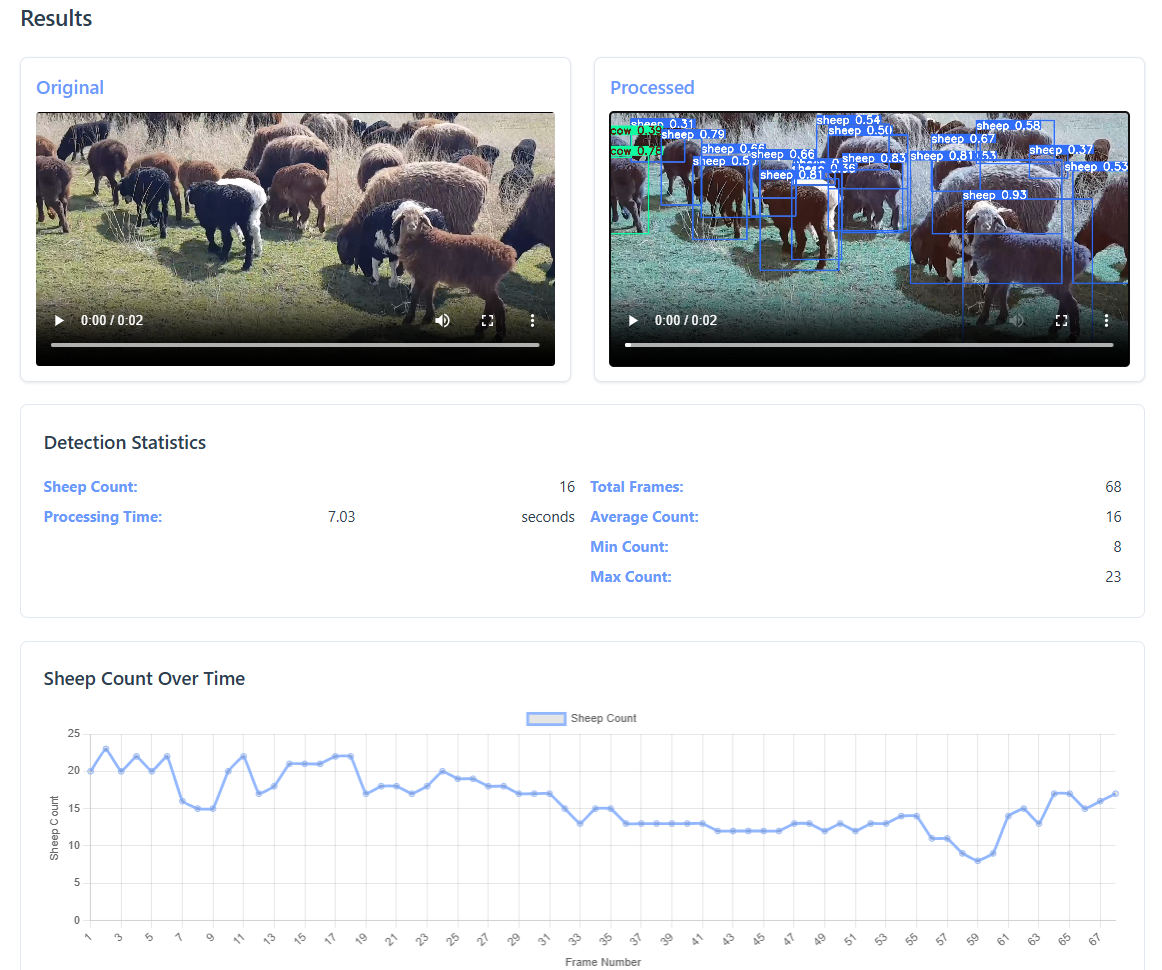
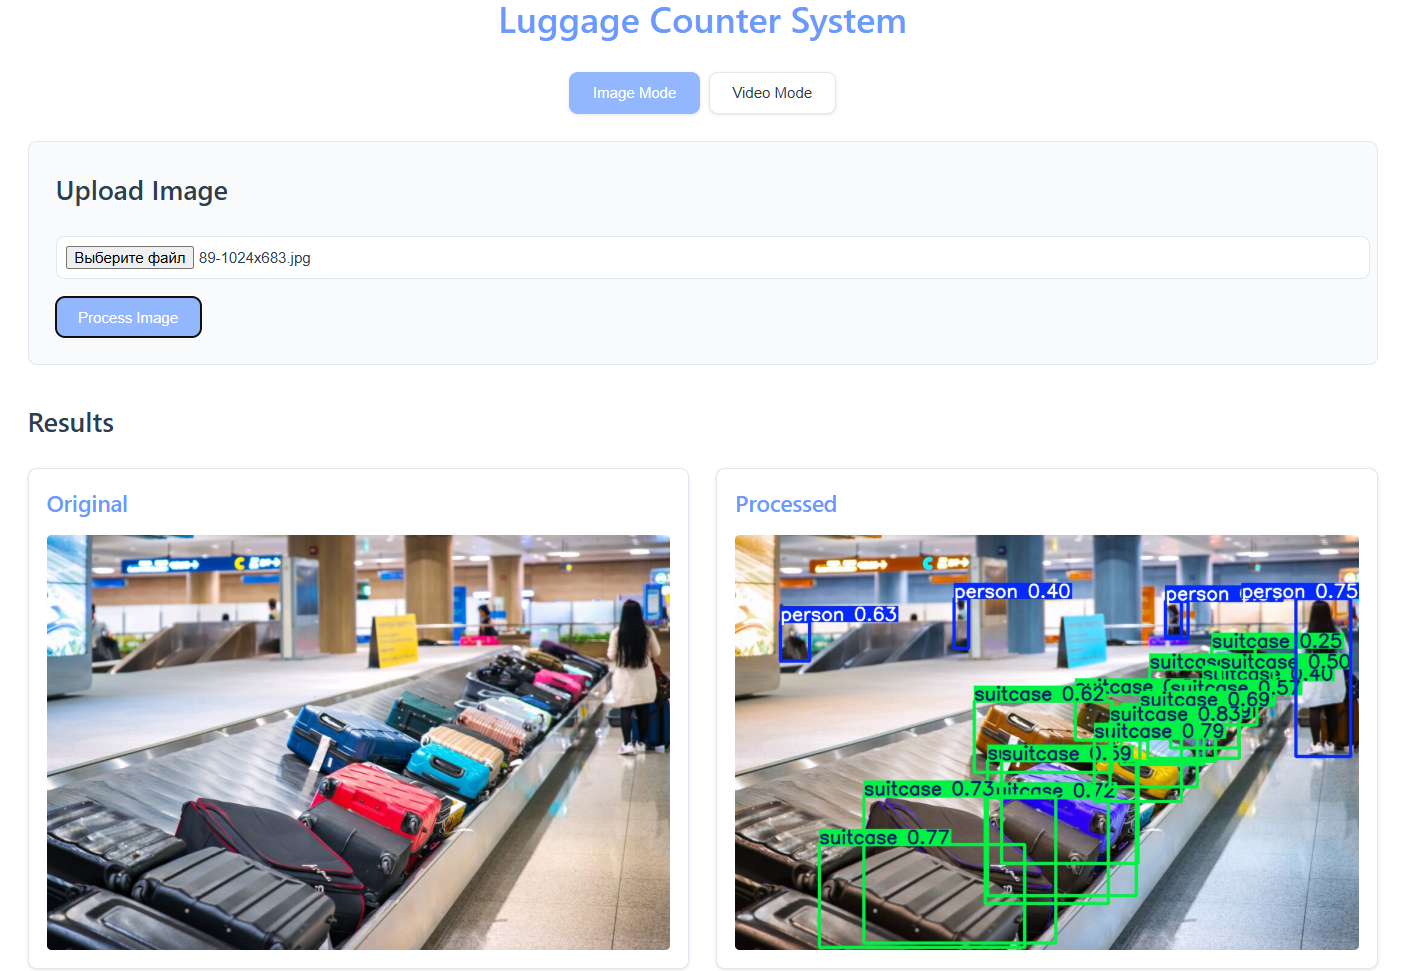
Change logic - count luggage

diff --git a/app/templates/index.html b/app/templates/index.html
@@ -3,12 +3,12 @@
 <head>
     <meta charset="UTF-8">
     <meta name="viewport" content="width=device-width, initial-scale=1.0">
-    <title>Sheep Counter System</title>
+    <title>Luggage Counter System</title>
     <link rel="stylesheet" href="/static/styles.css">
 </head>
 <body>
     <div class="container">
-        <h1>Sheep Counter System</h1>
+        <h1>Luggage Counter System</h1>
         
         <div class="mode-selector">
             <button class="mode-btn active" data-mode="image">Image Mode</button>
@@ -54,7 +54,7 @@
                 <h3>Detection Statistics</h3>
                 <div class="stats-grid">
                     <div>
-                        <p><strong>Sheep Count:</strong> <span id="sheepCount">0</span></p>
+                        <p><strong>Luggage Count:</strong> <span id="luggageCount">0</span></p>
                         <p><strong>Processing Time:</strong> <span id="processingTime">0</span> seconds</p>
                     </div>
                     <div id="videoStats" style="display:none;">
@@ -67,7 +67,7 @@
             </div>
 
             <div id="videoTimeline" class="timeline" style="display:none;">
-                <h3>Sheep Count Over Time</h3>
+                <h3>Luggage Count Over Time</h3>
                 <canvas id="timelineChart" width="800" height="200"></canvas>
             </div>
         </div>
@@ -186,7 +186,7 @@
                 }
             }
 
-            document.getElementById('sheepCount').textContent = data.count;
+            document.getElementById('luggageCount').textContent = data.count;
             document.getElementById('processingTime').textContent = data.processing_time;
         }
         
@@ -204,14 +204,14 @@
             const ctx = document.getElementById('timelineChart').getContext('2d');
 
             const labels = frameStats.map(stat => stat[0]); // Frame numbers
-            const counts = frameStats.map(stat => stat[1]); // Sheep counts
+            const counts = frameStats.map(stat => stat[1]); // Luggage counts
             
             new Chart(ctx, {
                 type: 'line',
                 data: {
                     labels: labels,
                     datasets: [{
-                        label: 'Sheep Count',
+                        label: 'Luggage Count',
                         data: counts,
                         borderColor: 'rgb(146, 183, 254)',
                         tension: 0.1,
@@ -225,7 +225,7 @@
                             beginAtZero: true,
                             title: {
                                 display: true,
-                                text: 'Sheep Count'
+                                text: 'Luggage Count'
                             }
                         },
                         x: {

diff --git a/app/templates/history.html b/app/templates/history.html
@@ -17,7 +17,7 @@
                     <th>Timestamp</th>
                     <th>Original Image/Video</th>
                     <th>Processed Image/Video</th>
-                    <th>Sheep Count</th>
+                    <th>Luggage Count</th>
                     <th>Processing Time</th>
                 </tr>
             </thead>
@@ -27,7 +27,7 @@
                     <td>{{ item.timestamp }}</td>
                     <td><a href="/static/uploads/{{ item.original_image }}" target="_blank">View</a></td>
                     <td><a href="/static/results/{{ item.processed_image }}" target="_blank">View</a></td>
-                    <td>{{ item.sheep_count }}</td>
+                    <td>{{ item.luggage_count }}</td>
                     <td>{{ "%.2f"|format(item.processing_time) }}s</td>
                 </tr>
                 {% endfor %}

diff --git a/app/detection.py b/app/detection.py
@@ -8,11 +8,11 @@ import numpy as np
 
 class DetectionResult(NamedTuple):
     image: Image.Image
-    count: int  # количество овец на изображении или среднее количество овец в кадре
+    count: int  # количество багажа на изображении или среднее количество багажа в кадре
     processing_time: float  # время обработки медиа файла
     frame_stats: List[Tuple[int, int, float]] = None  # для построения графика зависимости количества объектов от кадров
-    min_count: int = 0  # минимальное количество овец в кадре
-    max_count: int = 0  # максимальное количество овец в кадре
+    min_count: int = 0  # минимальное количество багажа в кадре
+    max_count: int = 0  # максимальное количество багажа в кадре
     total_frames: int = 0   # общее количество кадров в видео
 
 # Загрузка модели
@@ -32,14 +32,14 @@ def detect_objects(image_path: str, is_video: bool = False) -> DetectionResult:
         # Детекция объектов
         results = model(img_rgb)
         
-        # Подсчет овец
-        sheep_classes = ['sheep']
-        sheep_count = 0
+        # Подсчет багажа
+        luggage_classes = ['suitcase', 'handbag', 'backpack']
+        luggage_count = 0
         for result in results:
             for box in result.boxes:
                 class_name = model.names[int(box.cls)]
-                if class_name in sheep_classes:
-                    sheep_count += 1
+                if class_name in luggage_classes:
+                    luggage_count += 1
         
         plotted_img = results[0].plot()
         plotted_img_rgb = cv2.cvtColor(plotted_img, cv2.COLOR_BGR2RGB)
@@ -55,7 +55,7 @@ def detect_objects(image_path: str, is_video: bool = False) -> DetectionResult:
         
         return DetectionResult(
             image=pil_img,
-            count=sheep_count,
+            count=luggage_count,
             processing_time=round(processing_time, 2)
         )
     
@@ -104,15 +104,15 @@ def detect_objects(image_path: str, is_video: bool = False) -> DetectionResult:
             # Детекция объектов
             results = model(frame)
             
-            # Подсчет овец
-            sheep_count = 0
+            # Подсчет багажа
+            luggage_count = 0
             for result in results:
                 for box in result.boxes:
                     class_name = model.names[int(box.cls)]
-                    if class_name == 'sheep':
-                        sheep_count += 1
+                    if class_name in ['suitcase', 'handbag', 'backpack']:
+                        luggage_count += 1
             
-            counts.append(sheep_count)
+            counts.append(luggage_count)
             
             # Визуализация
             plotted_frame = results[0].plot()
@@ -121,7 +121,7 @@ def detect_objects(image_path: str, is_video: bool = False) -> DetectionResult:
             plotted_frame_rgb = cv2.cvtColor(plotted_frame, cv2.COLOR_BGR2RGB)
             out.write(plotted_frame_rgb)
             
-            frame_stats.append((frame_count, sheep_count, time.time() - frame_start))
+            frame_stats.append((frame_count, luggage_count, time.time() - frame_start))
 
             if frame_count % 10 == 0:
                 processed_frames.append(plotted_frame_rgb)
@@ -145,7 +145,7 @@ def detect_objects(image_path: str, is_video: bool = False) -> DetectionResult:
         
         return DetectionResult(
             image=last_frame,
-            count=avg_count,
+            count=max_count,
             processing_time=round(processing_time, 2),
             frame_stats=frame_stats,
             min_count=min_count,

diff --git a/app/database.py b/app/database.py
@@ -9,7 +9,7 @@ from reportlab.platypus import SimpleDocTemplate, Table, TableStyle, Paragraph
 from reportlab.lib.styles import getSampleStyleSheet
 import os
 
-SQLALCHEMY_DATABASE_URL = "sqlite:///./sheep_counter.db"
+SQLALCHEMY_DATABASE_URL = "sqlite:///./luggage_counter.db"
 
 engine = create_engine(SQLALCHEMY_DATABASE_URL)
 SessionLocal = sessionmaker(autocommit=False, autoflush=False, bind=engine)
@@ -23,7 +23,7 @@ class DetectionHistory(Base):
     timestamp = Column(DateTime, default=datetime.utcnow)
     original_image = Column(String)
     processed_image = Column(String)
-    sheep_count = Column(Integer)
+    luggage_count = Column(Integer)
     processing_time = Column(Float)
 
 Base.metadata.create_all(bind=engine)
@@ -34,7 +34,7 @@ def save_to_history(result: DetectionResult):
         db_item = DetectionHistory(
             original_image=result.original_image,
             processed_image=result.processed_image,
-            sheep_count=result.sheep_count,
+            luggage_count=result.luggage_count,
             processing_time=result.processing_time
         )
         db.add(db_item)
@@ -62,7 +62,7 @@ def generate_report():
             item.timestamp.strftime("%Y-%m-%d %H:%M:%S"),
             item.original_image,
             item.processed_image,
-            item.sheep_count,
+            item.luggage_count,
             f"{item.processing_time:.2f}s"
         ])
     
@@ -71,12 +71,12 @@ def generate_report():
     os.makedirs(report_dir, exist_ok=True)
     timestamp = datetime.now().strftime("%Y%m%d_%H%M%S")
 
-    filename = f"{report_dir}/sheep_report_{timestamp}.pdf"
+    filename = f"{report_dir}/luggage_report_{timestamp}.pdf"
     doc = SimpleDocTemplate(filename, pagesize=landscape(letter))
     styles = getSampleStyleSheet()
     
     elements = []
-    elements.append(Paragraph("Sheep Detection Report", styles["Title"]))
+    elements.append(Paragraph("Luggage Detection Report", styles["Title"]))
     
     # Создание таблицы
     table_data = [["Timestamp", "Original", "Processed", "Count", "Time"]] + data

diff --git a/app/main.py b/app/main.py
@@ -10,7 +10,7 @@ from .detection import detect_objects
 from .database import save_to_history, get_history, generate_report
 from .models import DetectionResult
 
-app = FastAPI(title="Sheep Counter System")
+app = FastAPI(title="Luggage Counter System")
 
 # Настройка статических файлов и шаблонов
 app.mount("/static", StaticFiles(directory="static"), name="static")
@@ -45,7 +45,7 @@ async def detect(file: UploadFile = File(...)):
         detection_result = DetectionResult(
             original_image=filename,
             processed_image=result_filename,
-            sheep_count=result.count,
+            luggage_count=result.count,
             processing_time=result.processing_time
         )
         save_to_history(detection_result)
@@ -91,4 +91,3 @@ async def generate_report_endpoint():
             filename=os.path.basename(report_path)
         )
     return JSONResponse({"status": "error", "message": "Report generation failed"})
-    

diff --git a/app/models.py b/app/models.py
@@ -5,7 +5,7 @@ from datetime import datetime
 class DetectionResult(BaseModel):
     original_image: str
     processed_image: str
-    sheep_count: int
+    luggage_count: int
     processing_time: float
 
 class DetectionInput(BaseModel):
